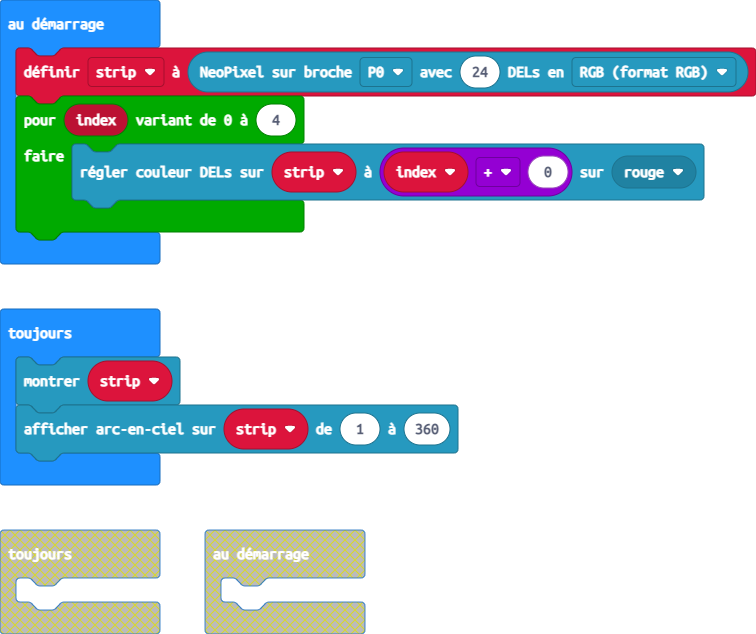
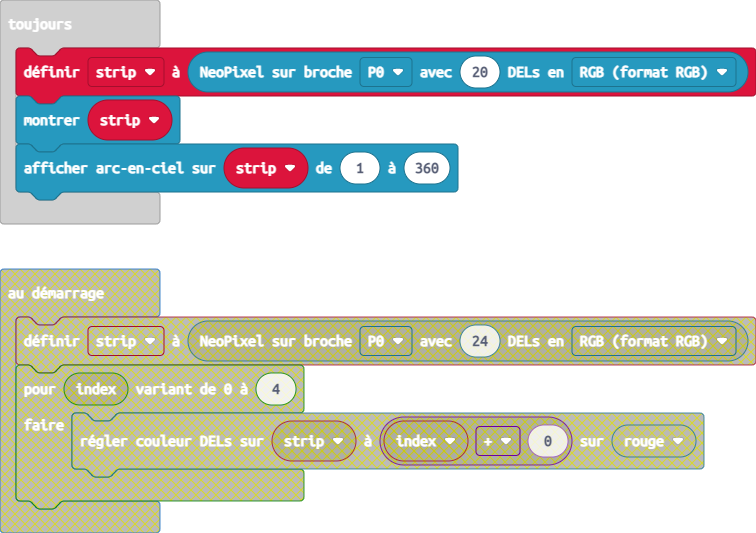
Mise à jour main.blocks, main.ts, Jeu-de-nim.md

diff --git a/main.ts b/main.ts
@@ -1,8 +1,6 @@
-let strip = neopixel.create(DigitalPin.P0, 24, NeoPixelMode.RGB)
-for (let index = 0; index <= 4; index++) {
-    strip.setPixelColor(index + 0, neopixel.colors(NeoPixelColors.Red))
-}
+let strip: neopixel.Strip = null
 basic.forever(function () {
+    strip = neopixel.create(DigitalPin.P0, 20, NeoPixelMode.RGB)
     strip.show()
     strip.showRainbow(1, 360)
 })

diff --git a/Jeu-de-nim.md b/Jeu-de-nim.md
@@ -13,7 +13,11 @@ basic.forever(function () {
 })
 ```
 ```template
+let strip: neopixel.Strip = null
 basic.forever(function () {
+    strip = neopixel.create(DigitalPin.P0, 20, NeoPixelMode.RGB)
+    strip.show()
+    strip.showRainbow(1, 360)
 })
 ```
 
